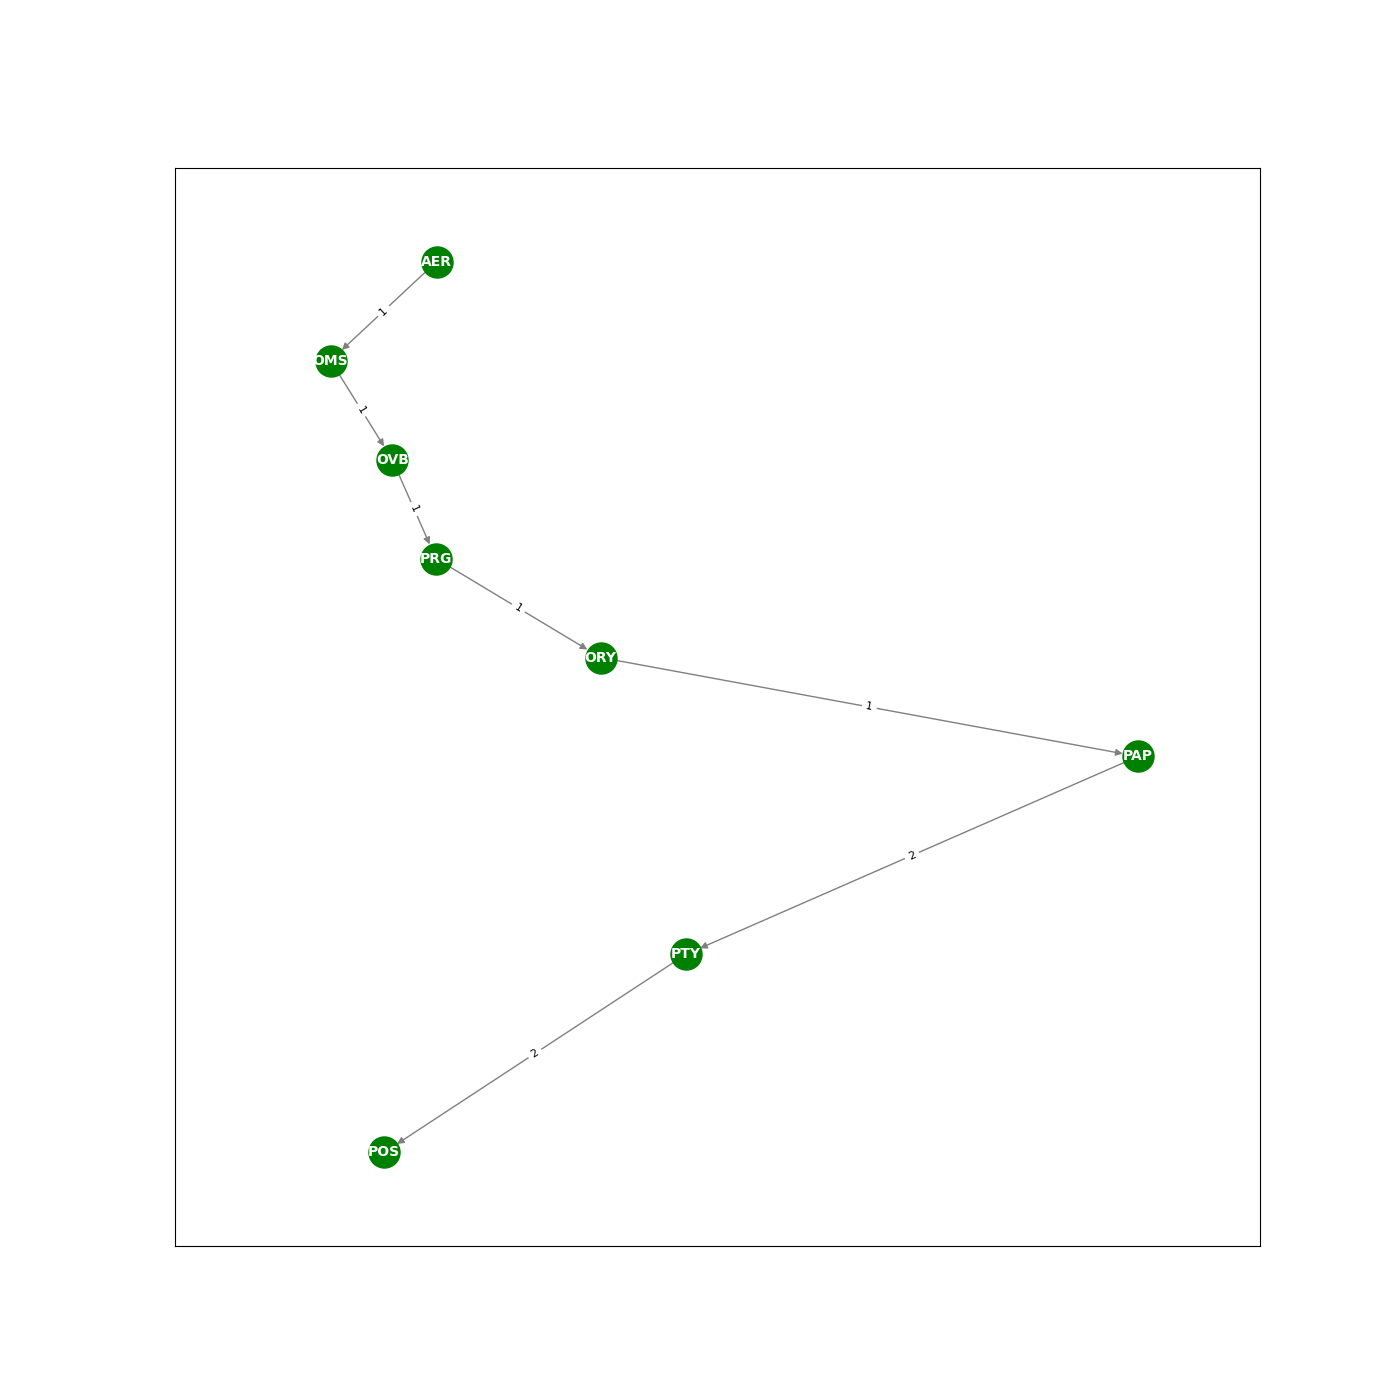
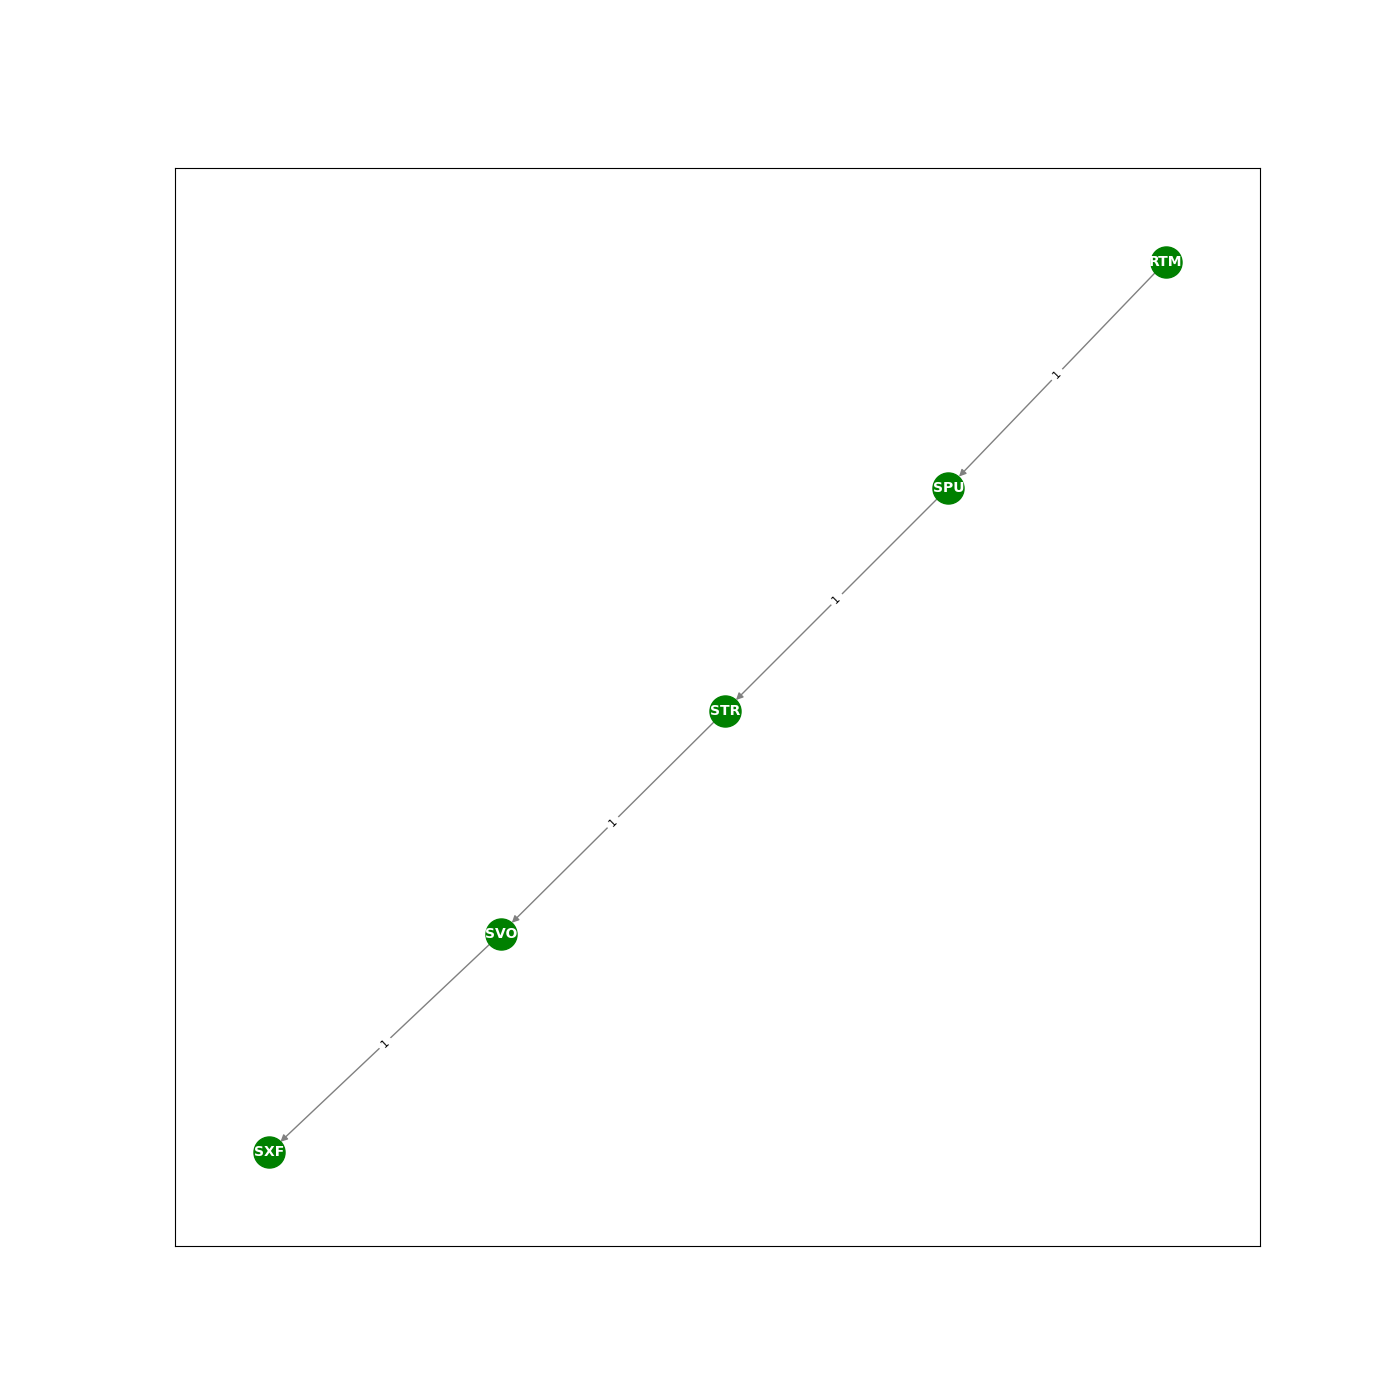
feat: add generate graphs by options selected in ddl

diff --git a/AeroTrack/Flights/templates/flights.html b/AeroTrack/Flights/templates/flights.html
@@ -48,40 +48,35 @@
     </section>    
 
     <div class="">
-    
-        <!-- Contenedor principal -->
         <main class="flex justify-center py-10">
             <div class="w-full max-w-screen-lg bg-white p-8 rounded-lg shadow-md">
-                <!-- Título y Descripción -->
                 <h1 class="text-center text-2xl font-bold mb-6">¡Bienvenido! Ingrese su aeropuerto y a donde desea viajar</h1>
     
-                <!-- Inputs y Botón -->
                 <div class="flex items-center justify-center space-x-4 mb-6">
                     <!-- Input Aeropuerto Origen -->
                     <div class="flex items-center space-x-2">
                         <label for="origen" class="font-semibold">Aeropuerto Origen:</label>
                         <select id="origen" class="border border-gray-300 rounded-lg p-2">
-                            <option>Aeropuerto AER</option>
-                            <option>Aeropuerto B</option>
-                            <!-- Más opciones -->
+                            {% for source_airport in source_airports %}
+                                <option value="{{ source_airport }}">Aeropuerto {{ source_airport }}</option>
+                            {% endfor %}
                         </select>
                     </div>
     
-                    <!-- Flecha o icono entre los inputs -->
-                    <div class="text-gray-600 text-2xl">→</div>
+                    <div class="text-2xl">→</div>
     
                     <!-- Input Aeropuerto Destino -->
                     <div class="flex items-center space-x-2">
                         <label for="destino" class="font-semibold">Aeropuerto Destino:</label>
                         <select id="destino" class="border border-gray-300 rounded-lg p-2">
-                            <option>Aeropuerto POS</option>
-                            <option>Aeropuerto Y</option>
-                            <!-- Más opciones -->
+                            {% for destination_airport in destination_airports %}
+                                <option value="{{ destination_airport }}">Aeropuerto {{ destination_airport }}</option>
+                            {% endfor %}
                         </select>
                     </div>
     
                     <!-- Botón de buscar ruta -->
-                    <button onclick="mostrarRutaImagen()" class="bg-blue-600 text-white p-2 rounded-lg hover:bg-blue-700 transition duration-300">
+                    <button onclick="redirectToRoute()" class="bg-blue-600 text-white p-2 rounded-lg hover:bg-blue-700 transition duration-300">
                         Buscar Ruta
                     </button>
                 </div>
@@ -110,19 +105,24 @@
                 </div>
             </div>
         </main>
+        {% if origen and target %}
         <div class="flex justify-center items-center">
-            <div id="rutaImagenContainer">
-                <img id="rutaImagen" src="{% static "assets/grafo de AER a POS.jpg" %}" alt="Imagen de la Ruta">
-            </div>
-
             <div class="w-1/2">
                 <img src="{% static "graphs/graph.png" %}" alt="grafo generado">
             </div>
         </div>
+        {% endif %}
+
         <script>
-            function mostrarRutaImagen() {
-                const rutaImagenContainer = document.getElementById("rutaImagenContainer");
-                rutaImagenContainer.style.display = "block";
+            function redirectToRoute() {
+                const origen = document.getElementById('origen').value;
+                const destino = document.getElementById('destino').value;
+        
+                if (origen && destino) {
+                    window.location.href = `/flights/${origen}/${destino}/`;
+                } else {
+                    alert("Por favor, selecciona tanto el aeropuerto de origen como el de destino.");
+                }
             }
         </script>
         

diff --git a/AeroTrack/Flights/views.py b/AeroTrack/Flights/views.py
@@ -10,7 +10,7 @@ import matplotlib.pyplot as plt
 import math
 from django.conf import settings
 
-def generate_graph():
+def generate_graph(origen, target):
     file_path = os.path.join(settings.BASE_DIR, 'Flights', 'routes.csv')
     df = pd.read_csv(file_path)
 
@@ -44,8 +44,6 @@ def generate_graph():
     def RutaAstar(grafo, nodo_inicio, nodo_final):
         return nx.astar_path(grafo, source=nodo_inicio, target=nodo_final, heuristic=heuristic, weight='weight')
 
-    origen = 'AER'
-    target = 'POS'
     ruta_mas_corta = RutaAstar(G, origen, target)
 
     GNEW = nx.DiGraph()
@@ -55,29 +53,24 @@ def generate_graph():
             break
         GNEW.add_edge(nodes, ruta_mas_corta[ruta_mas_corta.index(nodes) + 1], weight=G.get_edge_data(nodes, ruta_mas_corta[ruta_mas_corta.index(nodes) + 1])['weight'])
 
-    #pos = nx.kamada_kawai_layout(GNEW)
-    #plt.figure(figsize=(12, 12))
-    #nx.draw_networkx(GNEW, with_labels=True, node_size=100, node_color="skyblue", font_size=5, font_color="black", font_weight="normal", edge_color="gray", pos=pos)
-    #labels = nx.get_edge_attributes(GNEW, 'weight')
-    #nx.draw_networkx_edge_labels(GNEW, pos, edge_labels=labels)
-    
+
     pos = nx.kamada_kawai_layout(GNEW)
-    plt.figure(figsize=(14, 14))  # Tamaño del gráfico más grande
+    plt.figure(figsize=(14, 14)) 
     nx.draw_networkx(
         GNEW,
         pos=pos,
         with_labels=True,
-        node_size=500,  # Tamaño de los nodos incrementado
-        node_color="green",  # Color de los nodos en verde
-        font_size=10,  # Tamaño de la fuente mayor para mejor visibilidad
-        font_color="white",  # Color de las letras en blanco
-        font_weight="bold",  # Letras en negrita para mayor visibilidad
-        edge_color="gray"  # Color de las aristas en gris
+        node_size=500,  
+        node_color="green", 
+        font_size=10,  
+        font_color="white", 
+        font_weight="bold", 
+        edge_color="gray"  
     )
 
     # Agregar etiquetas de peso a las aristas
     labels = nx.get_edge_attributes(GNEW, 'weight')
-    nx.draw_networkx_edge_labels(GNEW, pos, edge_labels=labels, font_size=8, font_color="black")  # Tamaño de fuente para etiquetas de aristas
+    nx.draw_networkx_edge_labels(GNEW, pos, edge_labels=labels, font_size=8, font_color="black")  
 
 
     # Guardar la imagen en el directorio 'graphs'
@@ -89,7 +82,29 @@ def generate_graph():
     image_path = os.path.join(static_dir, 'graphs' ,'graph.png')
     plt.savefig(image_path)
     plt.close()
+    
+def upload_source_airports():
+    file_path = os.path.join(settings.BASE_DIR, 'Flights', 'routes.csv')
+    df = pd.read_csv(file_path)
+    df.columns = df.columns.str.strip()
 
+    if 'source airport' not in df.columns:
+        raise ValueError("La columna 'source airport' no se encuentra en el archivo CSV. Nombres encontrados: {}".format(df.columns))
+    return df['source airport'].drop_duplicates().sort_values().tolist()
+
+
+def upload_destination_airports():
+    file_path = os.path.join(settings.BASE_DIR, 'Flights', 'routes.csv')
+    df = pd.read_csv(file_path)
+    df.columns = df.columns.str.strip()
+
+    if 'destination apirport' not in df.columns:
+        raise ValueError("La columna 'destination apirport' no se encuentra en el archivo CSV. Nombres encontrados: {}".format(df.columns))
+    return df['destination apirport'].drop_duplicates().sort_values().tolist()
+
+
+    
+    
 # Create your views here.
 def IndexView(request):
     return render(request, "index.html")
@@ -97,6 +112,17 @@ def IndexView(request):
 def AboutView(request):
     return render(request, "about.html")
 
-def FlightsView(request):
-    generate_graph()
-    return render(request, "flights.html")
+def FlightsView(request, origen=None, target=None):
+    source_airports = upload_source_airports()
+    destination_airports = upload_destination_airports()
+
+    if origen and target:
+        generate_graph(origen, target)
+
+    context = {
+        "source_airports": source_airports,
+        "destination_airports": destination_airports,
+        "origen": origen,
+        "target": target,
+    }
+    return render(request, "flights.html", context)

diff --git a/AeroTrack/AeroTrackFlights/urls.py b/AeroTrack/AeroTrackFlights/urls.py
@@ -11,4 +11,5 @@ urlpatterns = [
     path('', IndexView),
     path('about/', AboutView),
     path('flights/', FlightsView),
+    path('flights/<str:origen>/<str:target>/', FlightsView),
 ] + static(settings.MEDIA_URL, document_root=settings.MEDIA_ROOT)
